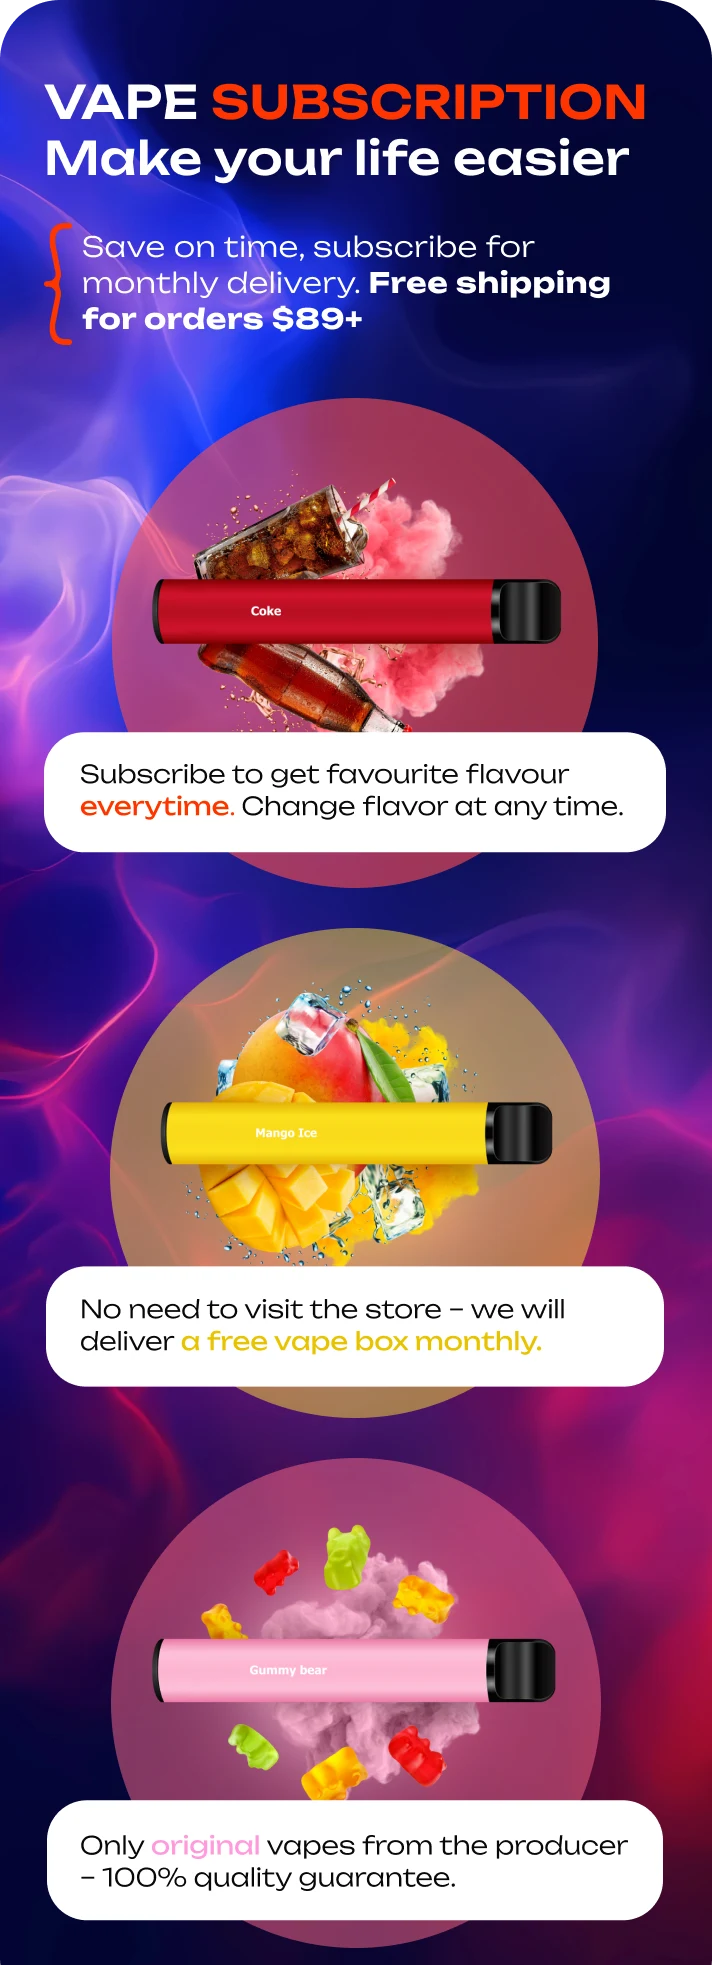
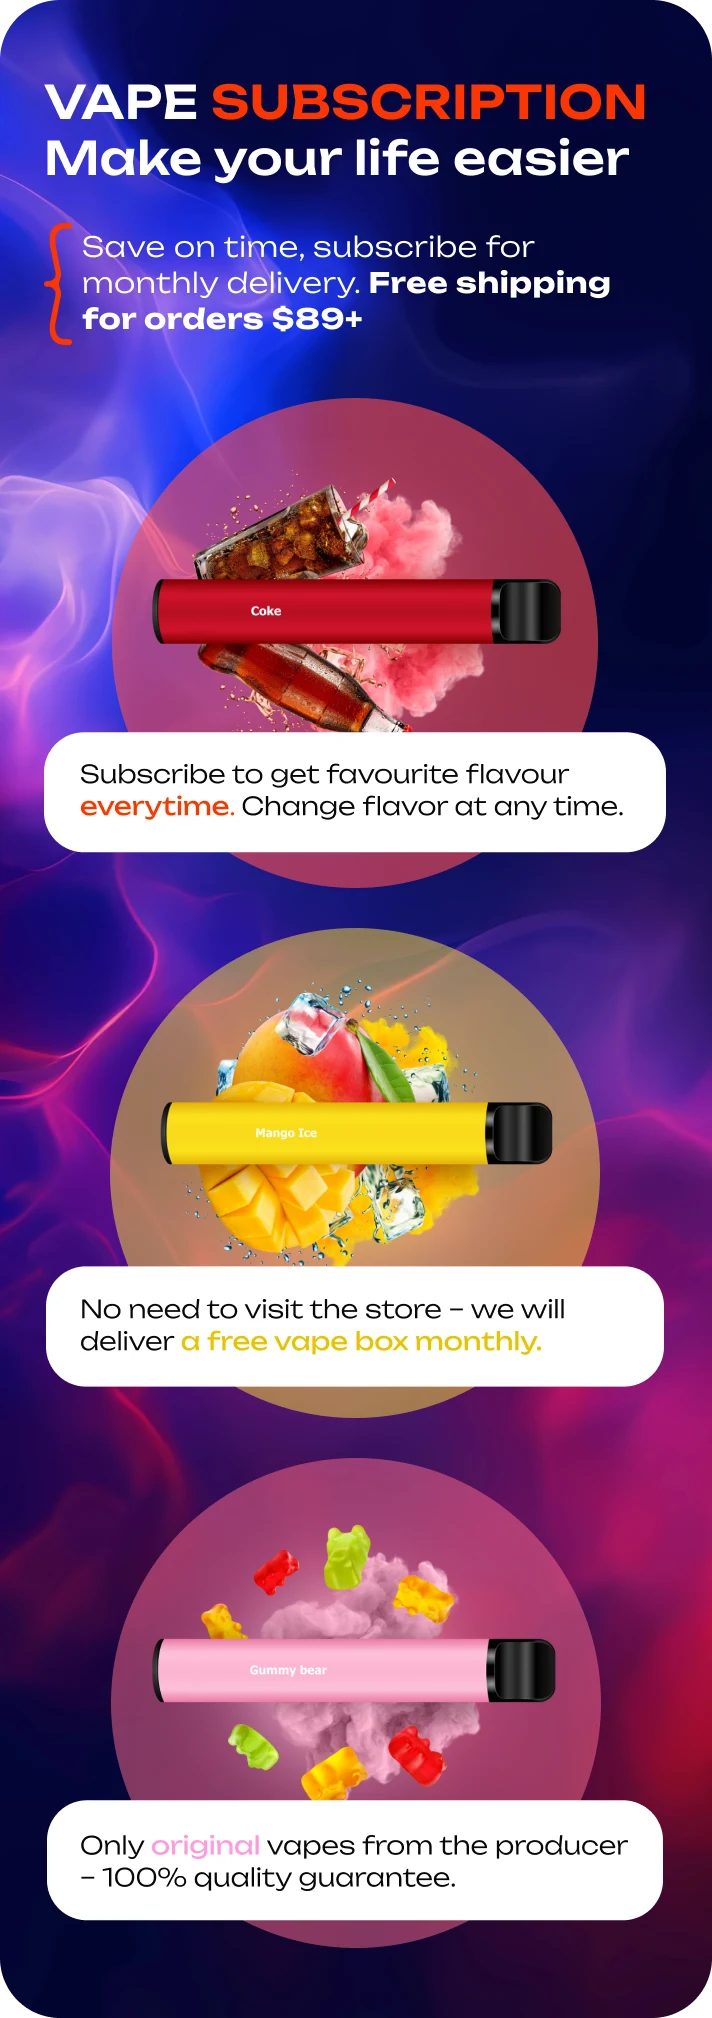
fix: VapeSubscription extend to full height 2018px - show complete 3rd circle

diff --git a/components/HomePage/VapeSubscription.tsx b/components/HomePage/VapeSubscription.tsx
@@ -8,7 +8,7 @@ const VapeSubscription = () => {
                 src="/subscription/full_section.webp"
                 alt="Vape Subscription - Make your life easier"
                 width={712}
-                height={1965}
+                height={2018}
                 className="w-full h-auto block"
                 sizes="100vw"
             />
